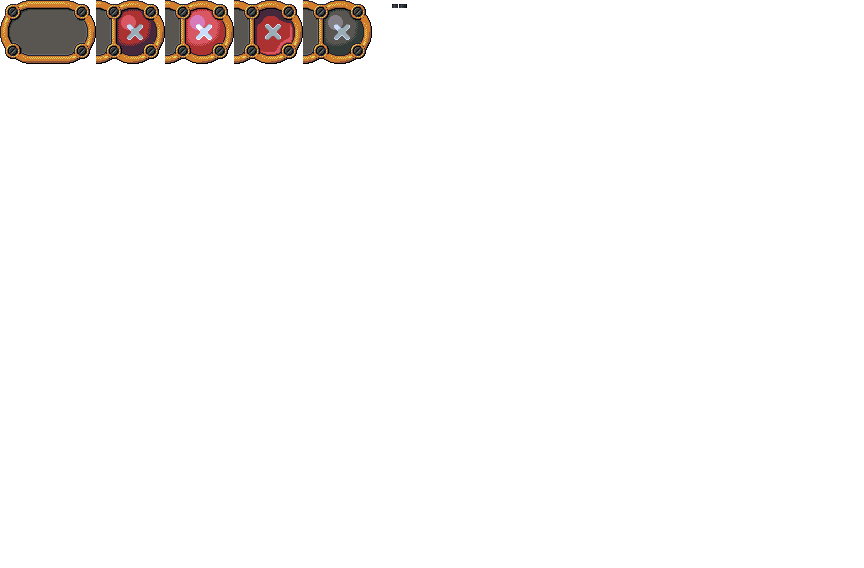
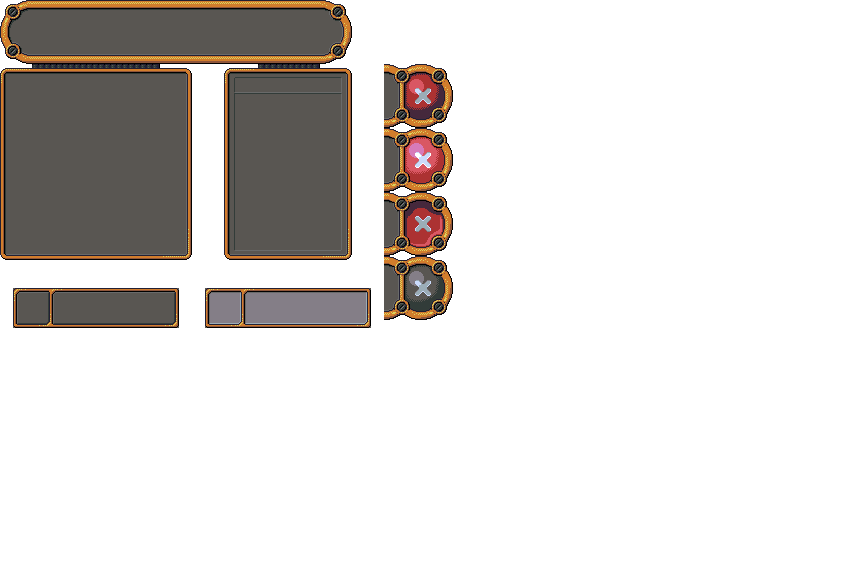
itemShop

Changed region(s): [[0.0, 0.0, 0.4688, 0.4789], [0.0, 0.0898, 0.5312, 0.5986]]

diff --git a/ui/itemShop.py b/ui/itemShop.py
@@ -1,31 +1,58 @@
 import random
 
+import pygame
+
 from gfx import assets
-from ultimates import ultManager
+from ultimates.ultManager import UltManager
 from weapons.weaponManager import WeaponManager
 
 
 class ItemShop:
     def __init__(self, world):
         self.world = world
+        self.upgrades = []
+        self.upgrades.append("Ammo pack")
+        self.upgrades.append("Health pack")
         self.choices = []
-        itemType = []
-        itemType.append(random.randint(1, 2))
-        itemType.append(random.randint(1, 2))
+        itemType = [random.randint(1, 3), random.randint(1, 3), random.randint(1, 2), random.randint(1, 2)]
         for item in itemType:
             if item == 1:
-                self.choices.append(random.choice(ultManager.ultimateList))
+                self.choices.append(random.choice(UltManager.ultimateList).name)
             elif item == 2:
-                self.choices.append(random.choice(WeaponManager.weaponList))
-        print(*self.choices)
-
+                self.choices.append(random.choice(WeaponManager.weaponList).name)
+            elif item == 3:
+                self.choices.append(random.choice(self.upgrades))
+        self.index = 1
 
     def tick(self):
-        pass
+        if self.world.state.game.inputManager.keyJustPressed.get("down"):
+            if self.index == 3:
+                self.index = 0
+            else:
+                self.index += 1
+        if self.world.state.game.inputManager.keyJustPressed.get("up"):
+            if self.index == 0:
+                self.index = 3
+            else:
+                self.index -= 1
 
     def render(self, display):
-        display.blit(assets.uiAssets[0], (200, 100))
-        for i in range(1, 9):
-            display.blit(assets.uiAssets[1],
-                         (200 + 32 * i, 100))
-        display.blit(assets.uiAssets[2], (200 + 32 * 9, 100))
+        image = assets.uiAssets[0]
+
+        # the four rectangle boxes
+        for i in range(4):
+            if i == self.index:
+                textbox = assets.uiAssets[2].copy()
+            else:
+                textbox = assets.uiAssets[1].copy()
+            assets.renderFont(textbox, self.choices[i], (229, 229, 242), (68, 68, 97), textbox.get_width()/2 + 27,
+                              textbox.get_height()/2, assets.font18)
+            image.blit(textbox, (0, 120 + 60 * i + 3 * i))
+
+        renderRect = assets.uiAssets[0].get_rect(
+            center=(self.world.state.game.width / 2, self.world.state.game.height / 2))
+        display.blit(assets.uiAssets[0], renderRect)
+
+        assets.renderFont(display, "Item Shop", (229, 229, 242), (68, 68, 97), self.world.state.game.width / 2,
+                          self.world.state.game.height / 2 - 150, assets.font36)
+

diff --git a/inputManager.py b/inputManager.py
@@ -4,9 +4,9 @@ import pygame
 class InputManager:
     def __init__(self, game):
         self.game = game
-        self.keys = pygame.key.get_pressed()  # what key is HOLD DOWN
-        self.keyReleased = [False] * len(self.keys)  # what key is JUST RELEASED
-        self.keyJustPressed = [False] * len(self.keys)  # what key is JUST PRESSED
+        self.keys = pygame.key.get_pressed()
+        self.keyReleased = {}
+        self.keyJustPressed = {}  # what key is JUST PRESSED
 
         self.mouse = [False, False]  # what mouse is pressed
         self.justPressed = [False, False]
@@ -16,10 +16,12 @@ class InputManager:
         self.offsetY = 0
 
     def tick(self):
-        self.justPressed = [False, False]  # set what keys and mouse is pressed this tick to false
-        self.keyReleased = [False] * len(self.keys)
-        self.keyJustPressed = [False] * len(self.keys)
         self.keys = pygame.key.get_pressed()  # get what key is held down
+        for i in self.keyReleased:
+            self.keyReleased[i] = False
+        for i in self.keyJustPressed:
+            self.keyJustPressed[i] = False
+        self.justPressed = [False, False]  # set what keys and mouse is pressed this tick to false
 
         mouse = pygame.mouse.get_pos()  # position of mouse
         self.x = mouse[0]
@@ -29,17 +31,21 @@ class InputManager:
 
     def keyUp(self, event):  # when a key is released
         if event.key == pygame.K_SPACE:
-            self.keyReleased[pygame.K_SPACE] = True  #set the keyReleased to true just for this tick
+            self.keyReleased["space"] = True  #set the keyReleased to true just for this tick
 
     def keyDown(self, event):  # when a key is pressed down
         if event.key == pygame.K_SPACE:
-            self.keyJustPressed[pygame.K_SPACE] = True
+            self.keyJustPressed["space"] = True
         if event.key == pygame.K_r:
-            self.keyJustPressed[pygame.K_r] = True
+            self.keyJustPressed["r"] = True
         if event.key == pygame.K_TAB:
-            self.keyJustPressed[pygame.K_TAB] = True
+            self.keyJustPressed["tab"] = True
         if event.key == pygame.K_q:
-            self.keyJustPressed[pygame.K_q] = True
+            self.keyJustPressed["q"] = True
+        if event.key == pygame.K_UP:
+            self.keyJustPressed["up"] = True
+        if event.key == pygame.K_DOWN:
+            self.keyJustPressed["down"] = True
 
     def mousePressed(self):  # when a mouse is pressed
         if pygame.mouse.get_pressed()[0]:

diff --git a/gfx/assets.py b/gfx/assets.py
@@ -1,7 +1,7 @@
 import pygame
 
 spriteSheet = cannon = bullet = target = leftCannon\
-    = rightCannon = font36 = hand = None
+    = rightCannon = font36 = font18 = hand = None
 
 assaultRifle = []
 pistol = []
@@ -26,7 +26,7 @@ HEIGHT = 48
 purple = (98,  22, 107)
 
 def init():
-    global spriteSheet, bullet, cannon, target, leftCannon, rightCannon, font36,\
+    global spriteSheet, bullet, cannon, target, leftCannon, rightCannon, font36, font18,\
         assaultRifle, hand, sword, playerIdleRight, playerIdleLeft, arSound, hudAssets, hudbar, pistol, uiAssets
 
     #sprite sheets
@@ -94,12 +94,12 @@ def init():
     greenbar2 = hudSheet.subsurface((153, 44, 8, 15))
     hudbar.append([greenbar1, greenbar2])
 
-    uiAssets.append(uiSheet.subsurface((0, 0, 32, 64)))
-    uiAssets.append(uiSheet.subsurface((32, 0, 32, 64)))
-    uiAssets.append(uiSheet.subsurface((64, 0, 32, 64)))
-
+    uiAssets.append(pygame.transform.scale(uiSheet.subsurface((0, 0, 32 * 11, 260)), (528, 390)))
+    uiAssets.append(pygame.transform.scale(uiSheet.subsurface((0, 32 * 9, 32 * 6, 40)), (288, 60)))
+    uiAssets.append(pygame.transform.scale(uiSheet.subsurface((32 * 6, 32 * 9, 32 * 6, 40)), (288, 60)))
 
     font36 = pygame.font.Font("res/slkscr.ttf", 36)
+    font18 = pygame.font.Font("res/slkscr.ttf", 18)
 
     arSound.append(pygame.mixer.Sound("res/sfx/arShot.wav"))
     arSound[0].set_volume(0.05)
@@ -121,6 +121,14 @@ def rot_center(image, angle):
     return rot_image
 
 def loadImage(path, key):
-    image = pygame.image.load(path)
+    image = pygame.image.load(path).convert_alpha()
     image.set_colorkey(key)
     return image
+
+def renderFont(display, string, color, bgcolor, centerX, centerY, font):
+    msg = font.render(string, False, bgcolor)
+    msg_rect = msg.get_rect(center=(centerX, centerY + 3))
+    display.blit(msg, msg_rect)
+    msg = font.render(string, False, color)
+    msg_rect = msg.get_rect(center=(centerX, centerY))
+    display.blit(msg, msg_rect)

diff --git a/entities/creatures/enemy.py b/entities/creatures/enemy.py
@@ -3,7 +3,7 @@ from entities.creatures.creature import Creature
 import random
 import time
 import pygame
-from player import Player
+from entities.creatures.player import Player
 import math
 
 class RangedAttack():
@@ -17,20 +17,24 @@ class RangedAttack():
         pygame.draw.circle(win, (255,255,255), (self.x,self.y), self.radius)
 
 class MeleeEnemy(Creature):
-    def __init__(self, world, health, x, y):
+    def __init__(self, world, health):
         super().__init__(world)
         self.image = assets.target
         self.rect = self.image.get_rect()
         self.health = health #by inputting the health value, we can account for the change in difficulty - more health with higher difficulty.
-        self.x = x
-        self.y = y
         self.animation_count = 0
         self.reset_offset = 0
         self.offset_x = random.randrange(-150, 150)
         self.offset_y = random.randrange(-150, 150) #the goal of the enemy is to attack the player and as such it will move towards the player, to add variety we have added the offset value so that for example if the player is at 0,0 -> the offset will cause the enemy to move towards a random point in that range - we will reset the offset randomly to offer that variability.
 
+    def setxy(self, x, y):
+        self.rect.x = x
+        self.rect.y = y
+
     def update(self):
         if self.health <= 0:
+            if len(self.world.target_list) == 1:
+                self.world.waveCleared()
             self.kill()
 
     def render(self, display):

diff --git a/entities/creatures/player.py b/entities/creatures/player.py
@@ -30,7 +30,7 @@ class Player(Creature):
         self.weapons[0] = AssaultRifle()
         self.weapons[0].entity = self
         self.weapons[1] = Pistol()
-        self.weapons[0].entity = self
+        self.weapons[1].entity = self
         self.equippedWeapon = self.weapons[0]
 
         self.energy = 0
@@ -72,7 +72,7 @@ class Player(Creature):
         self.equippedWeapon.update()
 
         #update ultimate ability
-        if self.world.state.game.inputManager.keyJustPressed[pygame.K_q] and self.energy == 100 and self.ultimate != None:
+        if self.world.state.game.inputManager.keyJustPressed.get("q") and self.energy == 100 and self.ultimate != None:
             self.ultimateOn = True
             self.ultimate.activiate()
             print("turn on")

diff --git a/states/startingState.py b/states/startingState.py
@@ -10,11 +10,10 @@ class StartingState(State):
 
     def tick(self):
         pass
-        if self.game.get_inputManager().get_keyReleased()[pygame.K_SPACE]:
+        if self.game.get_inputManager().get_keyReleased()["space"]:
             self.game.get_stateManager().set_state(self.game.gameState)
 
     def render(self, display):
         display.fill((0, 0, 0))
-        msg = assets.font36.render("PRESS SPACE TO START", False, (255, 255, 255))
-        msg_rect = msg.get_rect(center=(self.game.get_width()/2, self.game.get_height()/2))
-        display.blit(msg, msg_rect)
+        assets.renderFont(display, "PRESS SPACE TO START", (229, 229, 242), (68, 68, 97), self.world.state.game.width / 2,
+                          self.world.state.game.height / 2)

diff --git a/world.py b/world.py
@@ -1,7 +1,7 @@
 import random
 import pygame
 
-from entities.creatures.enemy import RangedEnemy
+from entities.creatures.enemy import RangedEnemy, MeleeEnemy
 from entities.creatures.player import Player
 from entities.entityManager import EntityManager
 from ui.hudManager import HUDManager
@@ -20,7 +20,7 @@ class World:
         self.entityManager = EntityManager()  # store all the entities, including enemies and player
 
         for i in range(5):
-            target = RangedEnemy(self, 3)
+            target = MeleeEnemy(self, 3)
             target.setxy(random.randint(0, self.state.game.width - target.rect.width),
                          random.randint(0, self.state.game.height / 2))
             self.target_list.add(target)

diff --git a/weapons/assaultRifle.py b/weapons/assaultRifle.py
@@ -11,6 +11,7 @@ import random as rnd
 class AssaultRifle(Weapon):
     def __init__(self):
         super().__init__()
+        self.name = "Assault rifle"
         self.attackSpeed = 0.11
         self.damage = 1
         self.spread = 4
@@ -85,7 +86,7 @@ class AssaultRifle(Weapon):
         self.image = assets.rot_center(curImage, angle)
         self.image.blit(assets.hand, (self.rect.width / 2 - 4, self.rect.height / 2 - 4))
 
-        if self.entity.world.state.game.inputManager.keyJustPressed[pygame.K_r]:
+        if self.entity.world.state.game.inputManager.keyJustPressed.get("r"):
             self.reloading = True
             assets.arSound[1].play()
         self.attack()

diff --git a/weapons/pistol.py b/weapons/pistol.py
@@ -11,6 +11,7 @@ import random as rnd
 class Pistol(Weapon):
     def __init__(self):
         super().__init__()
+        self.name = "Pistol"
         self.attackSpeed = 0.25
         self.damage = 2
         self.spread = 7
@@ -86,7 +87,7 @@ class Pistol(Weapon):
         self.image = assets.rot_center(curImage, angle)
         self.image.blit(assets.hand, (self.rect.width / 2 - 4, self.rect.height / 2 - 4))
 
-        if self.entity.world.state.game.inputManager.keyJustPressed[pygame.K_r]:
+        if self.entity.world.state.game.inputManager.keyJustPressed.get("r"):
             self.reloading = True
             self.timer = 0
             assets.pistolSound[1].play()

diff --git a/ui/hudManager.py b/ui/hudManager.py
@@ -59,5 +59,6 @@ class HUDManager():
 
         #current weapon magazine
         if self.player.equippedWeapon.maxAmmo != -1:
-            msg = assets.font36.render(f"{self.player.equippedWeapon.curMag}/{self.player.equippedWeapon.ammo}", False, (255, 0, 0))
-            display.blit(msg, (self.world.state.game.width - 150, self.world.state.game.height - 50))
+            assets.renderFont(display, f"{self.player.equippedWeapon.curMag}/{self.player.equippedWeapon.ammo}"
+                              , (255, 0, 0), (172, 50, 50),
+                              self.world.state.game.width - 100, self.world.state.game.height - 50, assets.font36)

diff --git a/ultimates/ult_invisible.py b/ultimates/ult_invisible.py
@@ -5,6 +5,7 @@ from ultimates.ultimate import Ultimate
 class Invisible(Ultimate):
     def __init__(self, duration, energy, id):
         super().__init__(duration, energy, id)
+        self.name = "Invisibility"
 
     def tick(self):
         self.timer += time.perf_counter() - self.lastTime

diff --git a/weapons/sword.py b/weapons/sword.py
@@ -10,6 +10,7 @@ from weapons.weapon import Weapon
 class Sword(Weapon):
     def __init__(self):
         super().__init__()
+        self.name = "Sword"
         self.maxAmmo = -1
         self.attackSpeed = 1
         self.damage = 3
